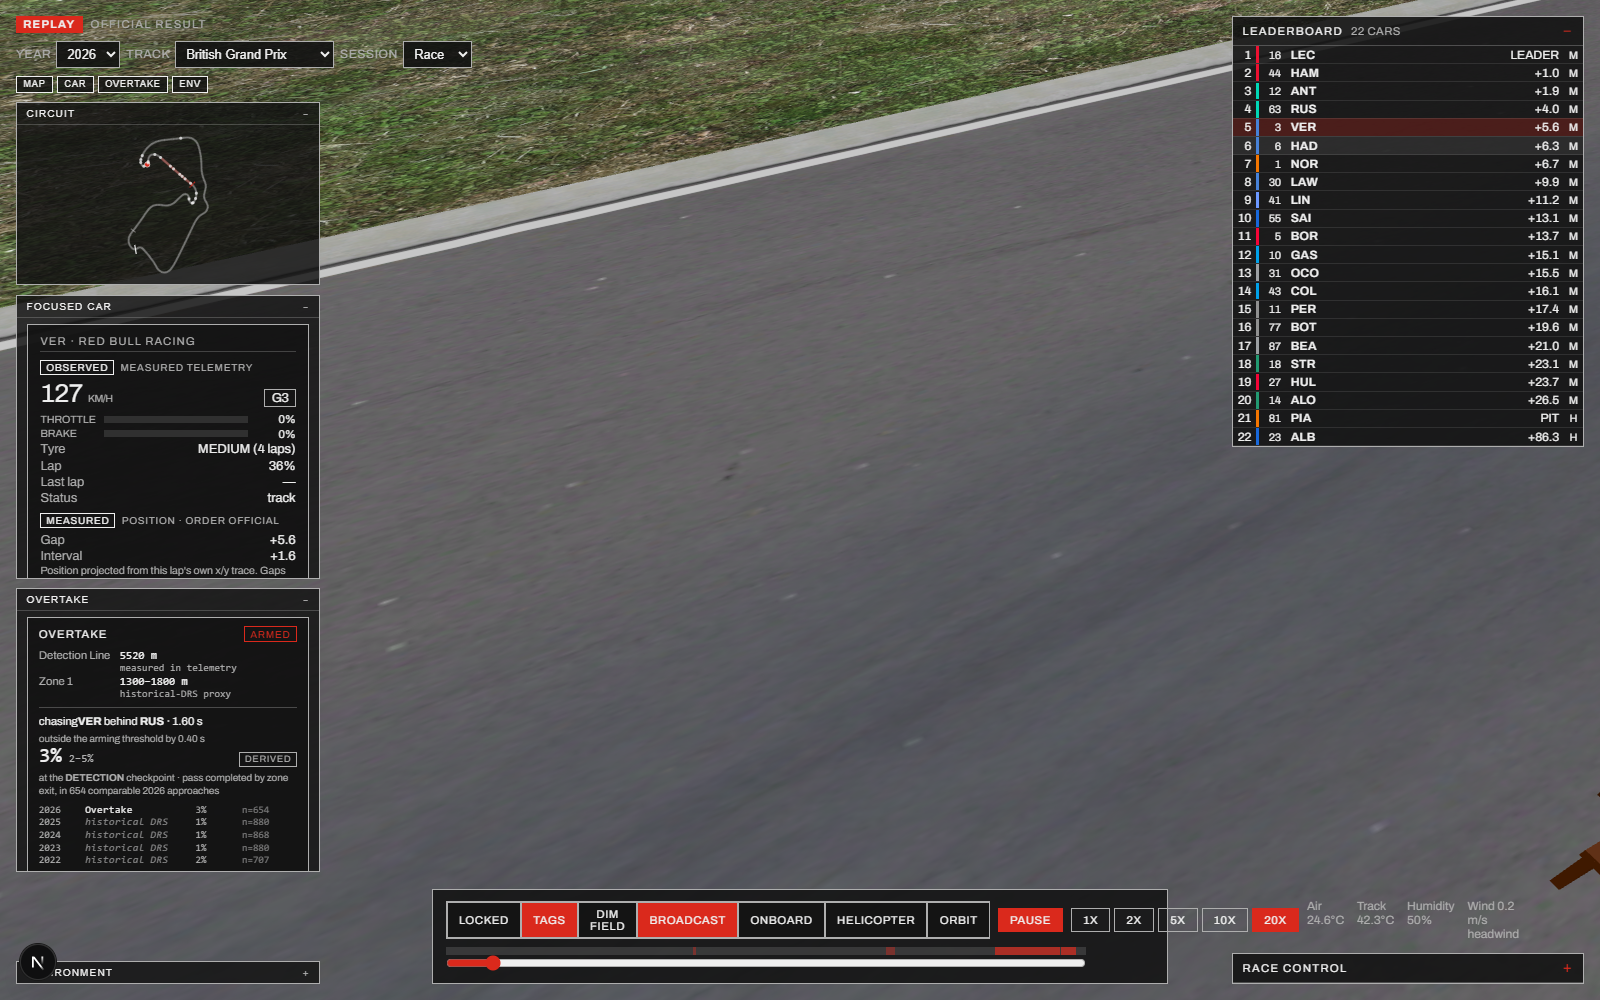
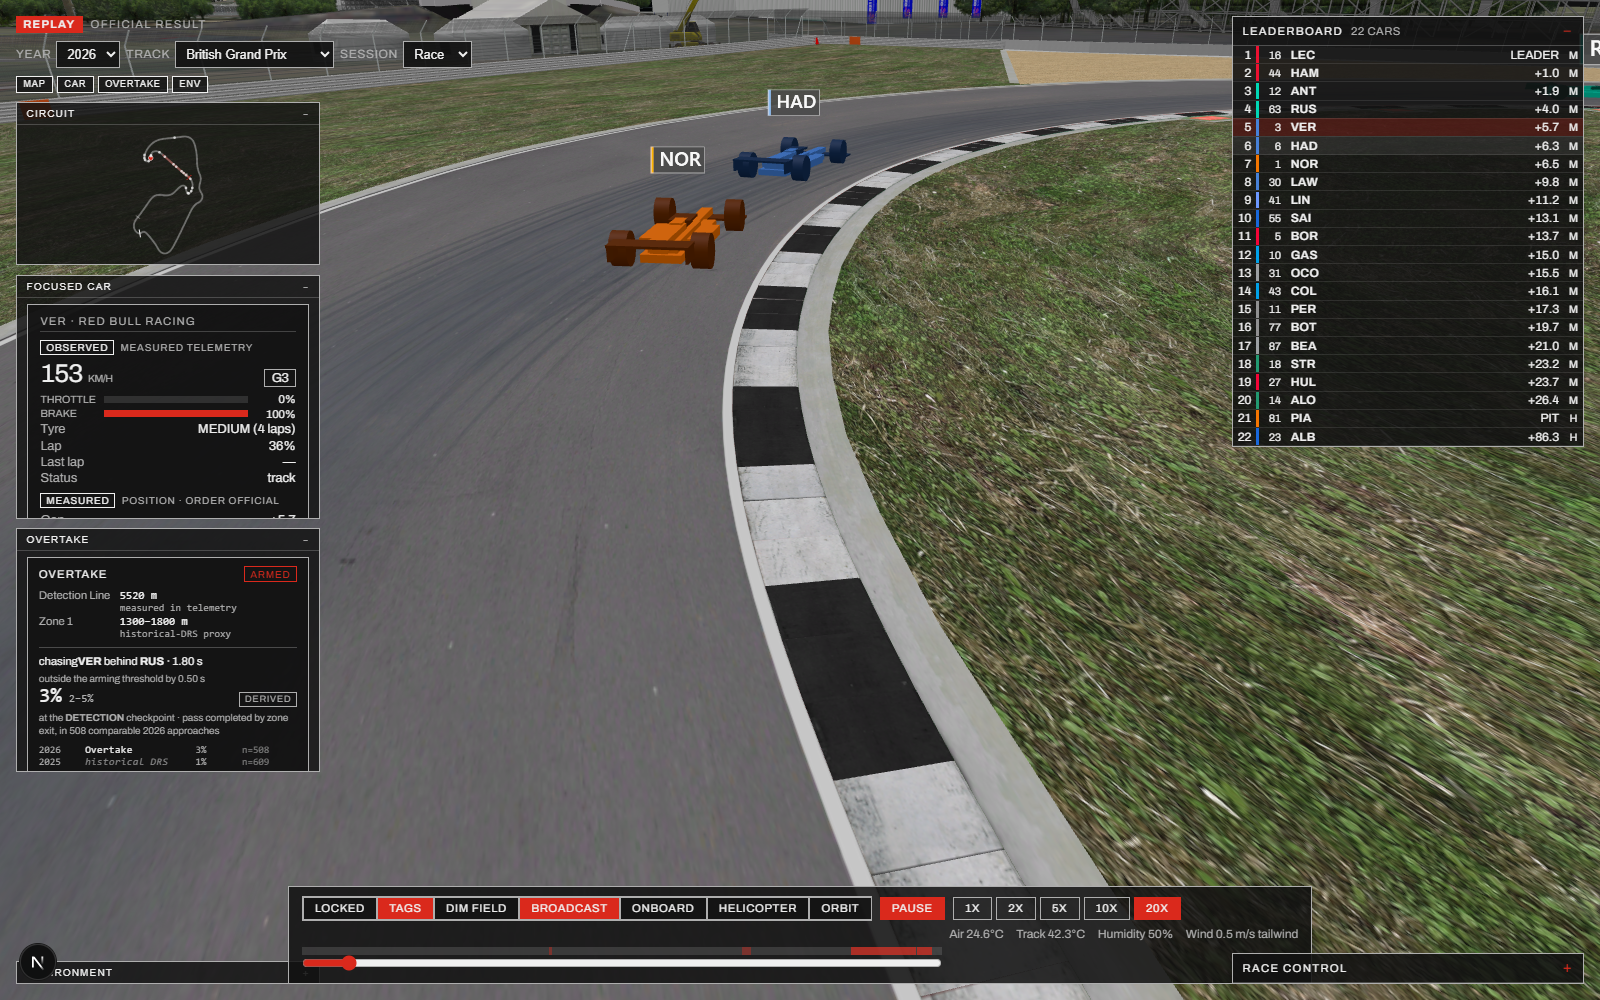
sim changes (x2)

diff --git a/frontend/src/app/integration/BattlePanel.tsx b/frontend/src/app/integration/BattlePanel.tsx
@@ -18,7 +18,7 @@
 "use client";
 
 import { useMemo } from "react";
-import { Field, ProvenanceBadge, Value } from "@/components/provenance/Provenance";
+import { ProvenanceBadge, Value } from "@/components/provenance/Provenance";
 import { formatQuantity, formatProbability, rankDistribution } from "@/serve/format";
 import type { Result } from "@/serve/guards";
 import type { BattlesResponse, TimelineResponse } from "@/serve/types";
